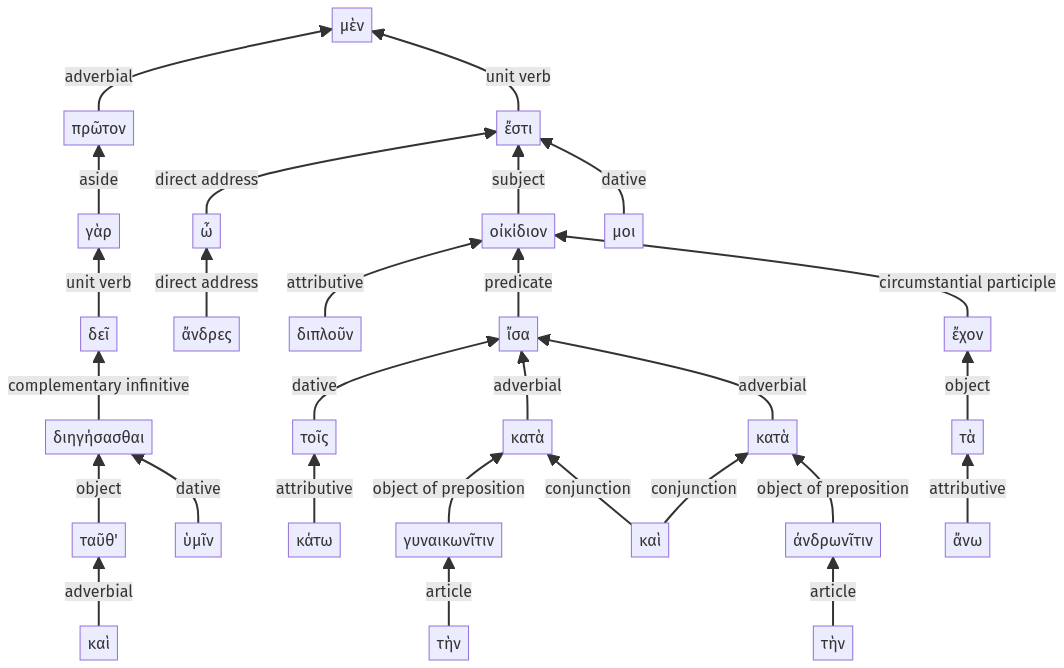
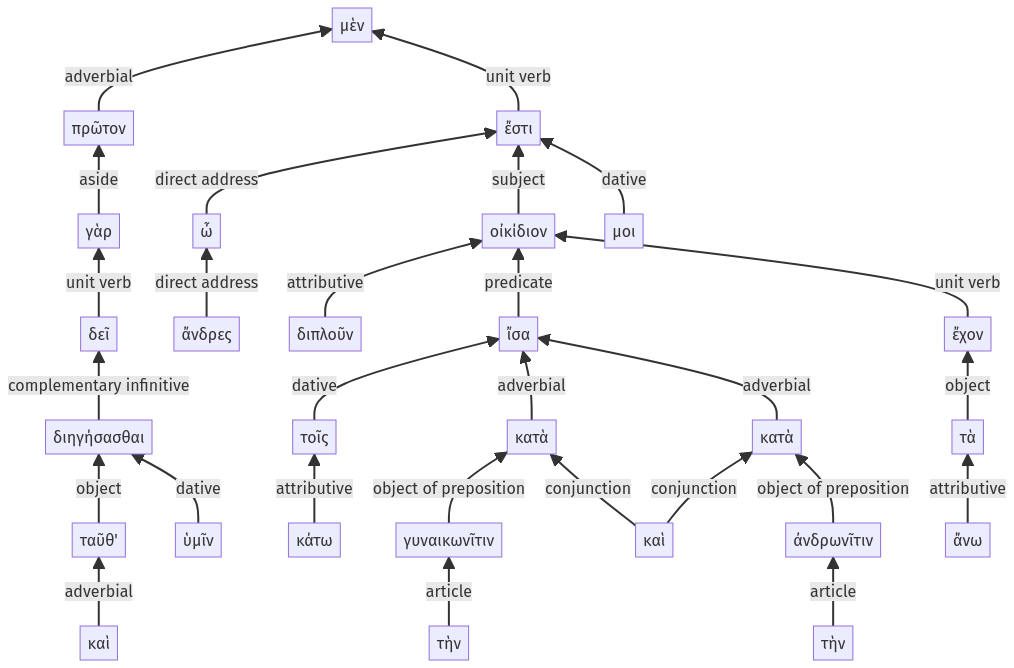
Update Lysias reader

diff --git a/docs/lysias1/reader/1.9.1-1.9.28a.html b/docs/lysias1/reader/1.9.1-1.9.28a.html
@@ -1,10 +1,10 @@
 <html>
 <head>
-<title>Lysias 1,  1.9.1-1.9.28a</title>
+<title>Lysias, Oration 1,  1.9.1-1.9.28a</title>
 <link rel="stylesheet" href="syntax.css">
 <link rel="stylesheet" href="page.css">
 </head>
-<body><h1>Lysias 1,  1.9.1-1.9.28a</h1>
+<body><h1>Lysias, Oration 1,  1.9.1-1.9.28a</h1>
 
 <p class="nav"><a href="./1.8.16-1.8.29a.html">1.8.16-1.8.29a</a> | <a href="./1.9.29-1.9.38a.html">1.9.29-1.9.38a</a></p>
 
@@ -15,9 +15,9 @@
  <span  >πρῶτον</span> <span  >μὲν</span> <span  >οὖν</span>, <span  >ὦ</span> <span  >ἄνδρες</span>, (<span  >δεῖ</span> <span  >γὰρ</span> <span  >καὶ</span> <span  >ταῦθ'</span> <span  >ὑμῖν</span> <span  >διηγήσασθαι</span>) <span  >οἰκίδιον</span> <span  >ἔστι</span> <span  >μοι</span> <span  >διπλοῦν</span>, <span  >ἴσα</span> <span  >ἔχον</span> <span  >τὰ</span> <span  >ἄνω</span> <span  >τοῖς</span> <span  >κάτω</span> <span  >κατὰ</span> <span  >τὴν</span> <span  >γυναικωνῖτιν</span> <span  >καὶ</span> <span  >κατὰ</span> <span  >τὴν</span> <span  >ἀνδρωνῖτιν</span>.
 </div>
 
-<div class="passage"><div class="passage"><blockquote class="subordination"><blockquote class="subordination"><span class="ref">1</span>   <span class="" >πρῶτον</span> <span class="" >ὦ</span> <span class="" >ἄνδρες</span></blockquote><blockquote class="subordination"><blockquote class="subordination"><span class="ref">2</span>  <span class="verb" >δεῖ</span> <span class="" >γὰρ</span> <span class="" >καὶ</span> <span class="object" >ταῦθ'</span> <span class="" >ὑμῖν</span> <span class="" >διηγήσασθαι</span></blockquote></blockquote><blockquote class="subordination"><span class="ref">1</span>   <span class="subject" >οἰκίδιον</span> <span class="verb" >ἔστι</span> <span class="" >μοι</span> <span class="" >διπλοῦν</span></blockquote><blockquote class="subordination"><blockquote class="subordination"><span class="ref">2</span>   <span class="" >ἴσα</span> <span class="" >ἔχον</span> <span class="object" >τὰ</span> <span class="" >ἄνω</span> <span class="" >τοῖς</span> <span class="" >κάτω</span> <span class="" >κατὰ</span> <span class="" >τὴν</span> <span class="" >γυναικωνῖτιν</span> <span class="" >καὶ</span> <span class="" >κατὰ</span> <span class="" >τὴν</span> <span class="" >ἀνδρωνῖτιν</span></blockquote></div></div>
+<div class="passage"><div class="passage"><blockquote class="subordination"><blockquote class="subordination"><span class="ref">1</span>   <span class="" >πρῶτον</span> <span class="" >ὦ</span> <span class="" >ἄνδρες</span></blockquote><blockquote class="subordination"><blockquote class="subordination"><span class="ref">2</span>  <span class="verb" >δεῖ</span> <span class="" >γὰρ</span> <span class="" >καὶ</span> <span class="object" >ταῦθ'</span> <span class="" >ὑμῖν</span> <span class="" >διηγήσασθαι</span></blockquote></blockquote><blockquote class="subordination"><span class="ref">1</span>   <span class="subject" >οἰκίδιον</span> <span class="verb" >ἔστι</span> <span class="" >μοι</span> <span class="" >διπλοῦν</span></blockquote><blockquote class="subordination"><blockquote class="subordination"><span class="ref">2</span>   <span class="" >ἴσα</span> <span class="verb" >ἔχον</span> <span class="object" >τὰ</span> <span class="" >ἄνω</span> <span class="" >τοῖς</span> <span class="" >κάτω</span> <span class="" >κατὰ</span> <span class="" >τὴν</span> <span class="" >γυναικωνῖτιν</span> <span class="" >καὶ</span> <span class="" >κατὰ</span> <span class="" >τὴν</span> <span class="" >ἀνδρωνῖτιν</span></blockquote></div></div>
 
-<div class="passage"> <span class="" style="color: #79A6A3">πρῶτον</span> <span class="connector" >μὲν</span> <span class="connector" >οὖν</span>, <span class="" style="color: #79A6A3">ὦ</span> <span class="" style="color: #79A6A3">ἄνδρες</span>, (<span class="verb" style="color: #C7D7CA">δεῖ</span> <span class="" style="color: #C7D7CA">γὰρ</span> <span class="" style="color: #C7D7CA">καὶ</span> <span class="object" style="color: #C7D7CA">ταῦθ'</span> <span class="" style="color: #C7D7CA">ὑμῖν</span> <span class="" style="color: #C7D7CA">διηγήσασθαι</span>) <span class="subject" style="color: #79A6A3">οἰκίδιον</span> <span class="verb" style="color: #79A6A3">ἔστι</span> <span class="" style="color: #79A6A3">μοι</span> <span class="" style="color: #79A6A3">διπλοῦν</span>, <span class="" style="color: #E5B36A">ἴσα</span> <span class="" style="color: #E5B36A">ἔχον</span> <span class="object" style="color: #E5B36A">τὰ</span> <span class="" style="color: #E5B36A">ἄνω</span> <span class="" style="color: #E5B36A">τοῖς</span> <span class="" style="color: #E5B36A">κάτω</span> <span class="" style="color: #E5B36A">κατὰ</span> <span class="" style="color: #E5B36A">τὴν</span> <span class="" style="color: #E5B36A">γυναικωνῖτιν</span> <span class="" style="color: #E5B36A">καὶ</span> <span class="" style="color: #E5B36A">κατὰ</span> <span class="" style="color: #E5B36A">τὴν</span> <span class="" style="color: #E5B36A">ἀνδρωνῖτιν</span>.</div>
+<div class="passage"> <span class="" style="color: #79A6A3">πρῶτον</span> <span class="connector" >μὲν</span> <span class="connector" >οὖν</span>, <span class="" style="color: #79A6A3">ὦ</span> <span class="" style="color: #79A6A3">ἄνδρες</span>, (<span class="verb" style="color: #C7D7CA">δεῖ</span> <span class="" style="color: #C7D7CA">γὰρ</span> <span class="" style="color: #C7D7CA">καὶ</span> <span class="object" style="color: #C7D7CA">ταῦθ'</span> <span class="" style="color: #C7D7CA">ὑμῖν</span> <span class="" style="color: #C7D7CA">διηγήσασθαι</span>) <span class="subject" style="color: #79A6A3">οἰκίδιον</span> <span class="verb" style="color: #79A6A3">ἔστι</span> <span class="" style="color: #79A6A3">μοι</span> <span class="" style="color: #79A6A3">διπλοῦν</span>, <span class="" style="color: #E5B36A">ἴσα</span> <span class="verb" style="color: #E5B36A">ἔχον</span> <span class="object" style="color: #E5B36A">τὰ</span> <span class="" style="color: #E5B36A">ἄνω</span> <span class="" style="color: #E5B36A">τοῖς</span> <span class="" style="color: #E5B36A">κάτω</span> <span class="" style="color: #E5B36A">κατὰ</span> <span class="" style="color: #E5B36A">τὴν</span> <span class="" style="color: #E5B36A">γυναικωνῖτιν</span> <span class="" style="color: #E5B36A">καὶ</span> <span class="" style="color: #E5B36A">κατὰ</span> <span class="" style="color: #E5B36A">τὴν</span> <span class="" style="color: #E5B36A">ἀνδρωνῖτιν</span>.</div>
 
 <div class="key right"><strong>Highlighting</strong>:<ul>
 <li><span class="connector">connecting words</span>
@@ -35,5 +35,5 @@
 
 <div class="diagram"><img src="pngs/sentence_17.png" alt="Syntax diagram, sentence 17"/></div>
 
-<footer>Site created by <code>syntaxsite.jl</code>, version 1.0.1, on January 9, 2023.</footer></body>
+<footer>Site created by <code>syntaxsite.jl</code>, version 1.0.1, on January 10, 2023.</footer></body>
 </html>

diff --git a/docs/lysias1/reader/1.14.12-1.14.32a.html b/docs/lysias1/reader/1.14.12-1.14.32a.html
@@ -1,10 +1,10 @@
 <html>
 <head>
-<title>Lysias 1,  1.14.12-1.14.32a</title>
+<title>Lysias, Oration 1,  1.14.12-1.14.32a</title>
 <link rel="stylesheet" href="syntax.css">
 <link rel="stylesheet" href="page.css">
 </head>
-<body><h1>Lysias 1,  1.14.12-1.14.32a</h1>
+<body><h1>Lysias, Oration 1,  1.14.12-1.14.32a</h1>
 
 <p class="nav"><a href="./1.14.1-1.14.11a.html">1.14.1-1.14.11a</a> | <a href="./1.14.40-1.14.53a.html">1.14.40-1.14.53a</a></p>
 
@@ -15,9 +15,9 @@
  <span  >ἐρομένου</span> <span  >δέ</span> <span  >μου</span> <span  >τί</span> <span  >αἱ</span> <span  >θύραι</span> <span  >νύκτωρ</span> <span  >ψοφοῖεν</span>, <span  >ἔφασκε</span> <span  >τὸν</span> <span  >λύχνον</span> <span  >ἀποσβεσθῆναι</span> <span  >τὸν</span> <span  >παρὰ</span> <span  >τῷ</span> <span  >παιδίῳ</span>, <span  >εἶτα</span> <span  >ἐκ</span> <span  >τῶν</span> <span  >γειτόνων</span> <span  >ἐνάψασθαι</span>.
 </div>
 
-<div class="passage"><div class="passage"><blockquote class="subordination"><blockquote class="subordination"><blockquote class="subordination"><span class="ref">2</span>   <span class="" >ἐρομένου</span> <span class="" >μου</span></blockquote></blockquote><blockquote class="subordination"><blockquote class="subordination"><blockquote class="subordination"><span class="ref">3</span>   <span class="" >τί</span> <span class="" >αἱ</span> <span class="subject" >θύραι</span> <span class="" >νύκτωρ</span> <span class="verb" >ψοφοῖεν</span></blockquote></blockquote></blockquote><blockquote class="subordination"><span class="ref">1</span>   <span class="verb" >ἔφασκε</span></blockquote><blockquote class="subordination"><blockquote class="subordination"><span class="ref">2</span>   <span class="" >τὸν</span> <span class="subject" >λύχνον</span> <span class="verb" >ἀποσβεσθῆναι</span> <span class="" >τὸν</span> <span class="" >παρὰ</span> <span class="" >τῷ</span> <span class="" >παιδίῳ</span></blockquote></blockquote><blockquote class="subordination"><blockquote class="subordination"><span class="ref">2</span>   <span class="" >εἶτα</span> <span class="" >ἐκ</span> <span class="" >τῶν</span> <span class="" >γειτόνων</span> <span class="verb" >ἐνάψασθαι</span></blockquote></div></div>
+<div class="passage"><div class="passage"><blockquote class="subordination"><blockquote class="subordination"><blockquote class="subordination"><span class="ref">2</span>   <span class="verb" >ἐρομένου</span> <span class="" >μου</span></blockquote></blockquote><blockquote class="subordination"><blockquote class="subordination"><blockquote class="subordination"><span class="ref">3</span>   <span class="" >τί</span> <span class="" >αἱ</span> <span class="subject" >θύραι</span> <span class="" >νύκτωρ</span> <span class="verb" >ψοφοῖεν</span></blockquote></blockquote></blockquote><blockquote class="subordination"><span class="ref">1</span>   <span class="verb" >ἔφασκε</span></blockquote><blockquote class="subordination"><blockquote class="subordination"><span class="ref">2</span>   <span class="" >τὸν</span> <span class="subject" >λύχνον</span> <span class="verb" >ἀποσβεσθῆναι</span> <span class="" >τὸν</span> <span class="" >παρὰ</span> <span class="" >τῷ</span> <span class="" >παιδίῳ</span></blockquote></blockquote><blockquote class="subordination"><blockquote class="subordination"><span class="ref">2</span>   <span class="" >εἶτα</span> <span class="" >ἐκ</span> <span class="" >τῶν</span> <span class="" >γειτόνων</span> <span class="verb" >ἐνάψασθαι</span></blockquote></div></div>
 
-<div class="passage"> <span class="" style="color: #E5B36A">ἐρομένου</span> <span class="connector" >δέ</span> <span class="" style="color: #E5B36A">μου</span> <span class="" style="color: #C7D7CA">τί</span> <span class="" style="color: #C7D7CA">αἱ</span> <span class="subject" style="color: #C7D7CA">θύραι</span> <span class="" style="color: #C7D7CA">νύκτωρ</span> <span class="verb" style="color: #C7D7CA">ψοφοῖεν</span>, <span class="verb" style="color: #79A6A3">ἔφασκε</span> <span class="" style="color: #E7926C">τὸν</span> <span class="subject" style="color: #E7926C">λύχνον</span> <span class="verb" style="color: #E7926C">ἀποσβεσθῆναι</span> <span class="" style="color: #E7926C">τὸν</span> <span class="" style="color: #E7926C">παρὰ</span> <span class="" style="color: #E7926C">τῷ</span> <span class="" style="color: #E7926C">παιδίῳ</span>, <span class="" style="color: #E5B36A">εἶτα</span> <span class="" style="color: #E5B36A">ἐκ</span> <span class="" style="color: #E5B36A">τῶν</span> <span class="" style="color: #E5B36A">γειτόνων</span> <span class="verb" style="color: #E5B36A">ἐνάψασθαι</span>.</div>
+<div class="passage"> <span class="verb" style="color: #E5B36A">ἐρομένου</span> <span class="connector" >δέ</span> <span class="" style="color: #E5B36A">μου</span> <span class="" style="color: #C7D7CA">τί</span> <span class="" style="color: #C7D7CA">αἱ</span> <span class="subject" style="color: #C7D7CA">θύραι</span> <span class="" style="color: #C7D7CA">νύκτωρ</span> <span class="verb" style="color: #C7D7CA">ψοφοῖεν</span>, <span class="verb" style="color: #79A6A3">ἔφασκε</span> <span class="" style="color: #E7926C">τὸν</span> <span class="subject" style="color: #E7926C">λύχνον</span> <span class="verb" style="color: #E7926C">ἀποσβεσθῆναι</span> <span class="" style="color: #E7926C">τὸν</span> <span class="" style="color: #E7926C">παρὰ</span> <span class="" style="color: #E7926C">τῷ</span> <span class="" style="color: #E7926C">παιδίῳ</span>, <span class="" style="color: #E5B36A">εἶτα</span> <span class="" style="color: #E5B36A">ἐκ</span> <span class="" style="color: #E5B36A">τῶν</span> <span class="" style="color: #E5B36A">γειτόνων</span> <span class="verb" style="color: #E5B36A">ἐνάψασθαι</span>.</div>
 
 <div class="key right"><strong>Highlighting</strong>:<ul>
 <li><span class="connector">connecting words</span>
@@ -37,5 +37,5 @@
 
 <div class="diagram"><img src="pngs/sentence_32.png" alt="Syntax diagram, sentence 32"/></div>
 
-<footer>Site created by <code>syntaxsite.jl</code>, version 1.0.1, on January 9, 2023.</footer></body>
+<footer>Site created by <code>syntaxsite.jl</code>, version 1.0.1, on January 10, 2023.</footer></body>
 </html>

diff --git a/docs/lysias1/reader/1.15.51-1.15.70a.html b/docs/lysias1/reader/1.15.51-1.15.70a.html
@@ -1,10 +1,10 @@
 <html>
 <head>
-<title>Lysias 1,  1.15.51-1.15.70a</title>
+<title>Lysias, Oration 1,  1.15.51-1.15.70a</title>
 <link rel="stylesheet" href="syntax.css">
 <link rel="stylesheet" href="page.css">
 </head>
-<body><h1>Lysias 1,  1.15.51-1.15.70a</h1>
+<body><h1>Lysias, Oration 1,  1.15.51-1.15.70a</h1>
 
 <p class="nav"><a href="./1.15.31-1.15.50a.html">1.15.31-1.15.50a</a> | <a href="./1.16.1-1.16.15a.html">1.16.1-1.16.15a</a></p>
 
@@ -15,7 +15,7 @@
  <span  >προσελθοῦσα</span> <span  >οὖν</span> <span  >μοι</span> <span  >ἐγγὺς</span> <span  >ἡ</span> <span  >ἄνθρωπος</span> <span  >τῆς</span> <span  >οἰκίας</span> <span  >τῆς</span> <span  >ἐμῆς</span> <span  >ἐπιτηροῦσα</span>, "<span  >εὐφίλητε</span> "<span  >ἔφη</span> "<span  >μηδεμιᾷ</span> <span  >πολυπραγμοσύνῃ</span> <span  >προσεληλυθέναι</span> <span  >με</span> <span  >νόμιζε</span> <span  >πρὸς</span> <span  >σέ</span>:
 </div>
 
-<div class="passage"><div class="passage"><blockquote class="subordination"><blockquote class="subordination"><blockquote class="subordination"><span class="ref">2</span>   <span class="verb" >προσελθοῦσα</span> <span class="" >μοι</span> <span class="" >ἐγγὺς</span></blockquote></blockquote><blockquote class="subordination"><span class="ref">1</span>   <span class="" >ἡ</span> <span class="subject" >ἄνθρωπος</span></blockquote><blockquote class="subordination"><blockquote class="subordination"><span class="ref">2</span>   <span class="" >τῆς</span> <span class="object" >οἰκίας</span> <span class="" >τῆς</span> <span class="" >ἐμῆς</span> <span class="verb" >ἐπιτηροῦσα</span></blockquote></blockquote><blockquote class="subordination"><blockquote class="subordination"><span class="ref">2</span>  <span class="" >εὐφίλητε</span></blockquote></blockquote><blockquote class="subordination"><span class="ref">1</span>  <span class="verb" >ἔφη</span></blockquote><blockquote class="subordination"><blockquote class="subordination"><span class="ref">2</span>  <span class="" >μηδεμιᾷ</span> <span class="" >πολυπραγμοσύνῃ</span> <span class="verb" >προσεληλυθέναι</span> <span class="subject" >με</span></blockquote></blockquote><blockquote class="subordination"><blockquote class="subordination"><span class="ref">2</span>   <span class="verb" >νόμιζε</span></blockquote></blockquote><blockquote class="subordination"><blockquote class="subordination"><span class="ref">2</span>   <span class="" >πρὸς</span> <span class="" >σέ</span></blockquote></div></div>
+<div class="passage"><div class="passage"><blockquote class="subordination"><blockquote class="subordination"><blockquote class="subordination"><span class="ref">2</span>   <span class="verb" >προσελθοῦσα</span> <span class="" >μοι</span> <span class="" >ἐγγὺς</span></blockquote></blockquote><blockquote class="subordination"><span class="ref">1</span>   <span class="" >ἡ</span> <span class="subject" >ἄνθρωπος</span></blockquote><blockquote class="subordination"><blockquote class="subordination"><span class="ref">2</span>   <span class="" >τῆς</span> <span class="object" >οἰκίας</span> <span class="" >τῆς</span> <span class="" >ἐμῆς</span> <span class="verb" >ἐπιτηροῦσα</span></blockquote></blockquote><blockquote class="subordination"><blockquote class="subordination"><span class="ref">2</span>  <span class="" >εὐφίλητε</span></blockquote></blockquote><blockquote class="subordination"><span class="ref">1</span>  <span class="verb" >ἔφη</span></blockquote><blockquote class="subordination"><blockquote class="subordination"><blockquote class="subordination"><span class="ref">3</span>  <span class="" >μηδεμιᾷ</span> <span class="" >πολυπραγμοσύνῃ</span> <span class="verb" >προσεληλυθέναι</span> <span class="subject" >με</span></blockquote></blockquote></blockquote><blockquote class="subordination"><blockquote class="subordination"><span class="ref">2</span>   <span class="verb" >νόμιζε</span></blockquote></blockquote><blockquote class="subordination"><blockquote class="subordination"><blockquote class="subordination"><span class="ref">3</span>   <span class="" >πρὸς</span> <span class="" >σέ</span></blockquote></div></div>
 
 <div class="passage"> <span class="verb" style="color: #E5B36A">προσελθοῦσα</span> <span class="connector" >οὖν</span> <span class="" style="color: #E5B36A">μοι</span> <span class="" style="color: #E5B36A">ἐγγὺς</span> <span class="" style="color: #79A6A3">ἡ</span> <span class="subject" style="color: #79A6A3">ἄνθρωπος</span> <span class="" style="color: #C7D7CA">τῆς</span> <span class="object" style="color: #C7D7CA">οἰκίας</span> <span class="" style="color: #C7D7CA">τῆς</span> <span class="" style="color: #C7D7CA">ἐμῆς</span> <span class="verb" style="color: #C7D7CA">ἐπιτηροῦσα</span>, "<span class="" style="color: #E7926C">εὐφίλητε</span> "<span class="verb" style="color: #79A6A3">ἔφη</span> "<span class="" style="color: #E5B36A">μηδεμιᾷ</span> <span class="" style="color: #E5B36A">πολυπραγμοσύνῃ</span> <span class="verb" style="color: #E5B36A">προσεληλυθέναι</span> <span class="subject" style="color: #E5B36A">με</span> <span class="verb" style="color: #E7926C">νόμιζε</span> <span class="" style="color: #E5B36A">πρὸς</span> <span class="" style="color: #E5B36A">σέ</span>:</div>
 
@@ -32,10 +32,10 @@
 <li><span style="color: #E5B36A;">circumstantial participle</span> (level 2,  intransitive verb)</li>
 <li><span style="color: #C7D7CA;">circumstantial participle</span> (level 2,  transitive verb)</li>
 <li><span style="color: #E7926C;">quote</span> (level 2,  transitive verb)</li>
-<li><span style="color: #E5B36A;">indirect statement with infinitive</span> (level 2,  transitive verb)</li>
+<li><span style="color: #E5B36A;">indirect statement with infinitive</span> (level 3,  transitive verb)</li>
 </ol></div>
 
 <div class="diagram"><img src="pngs/sentence_38.png" alt="Syntax diagram, sentence 38"/></div>
 
-<footer>Site created by <code>syntaxsite.jl</code>, version 1.0.1, on January 9, 2023.</footer></body>
+<footer>Site created by <code>syntaxsite.jl</code>, version 1.0.1, on January 10, 2023.</footer></body>
 </html>

diff --git a/docs/lysias1/reader/1.12.35-1.12.50a.html b/docs/lysias1/reader/1.12.35-1.12.50a.html
@@ -1,10 +1,10 @@
 <html>
 <head>
-<title>Lysias 1,  1.12.35-1.12.50a</title>
+<title>Lysias, Oration 1,  1.12.35-1.12.50a</title>
 <link rel="stylesheet" href="syntax.css">
 <link rel="stylesheet" href="page.css">
 </head>
-<body><h1>Lysias 1,  1.12.35-1.12.50a</h1>
+<body><h1>Lysias, Oration 1,  1.12.35-1.12.50a</h1>
 
 <p class="nav"><a href="./1.12.20-1.12.34a.html">1.12.20-1.12.34a</a> | <a href="./1.12.51-1.12.56a.html">1.12.51-1.12.56a</a></p>
 
@@ -15,9 +15,9 @@
  <span  >ἐπειδὴ</span> <span  >δὲ</span> <span  >ἐγὼ</span> <span  >ὠργιζόμην</span> <span  >καὶ</span> <span  >ἐκέλευον</span> <span  >αὐτὴν</span> <span  >ἀπιέναι</span>, "<span  >ἵνα</span> <span  >σύ</span> <span  >γε</span> "<span  >ἔφη</span> "<span  >πειρᾷς</span> <span  >ἐνταῦθα</span> <span  >τὴν</span> <span  >παιδίσκην</span>:
 </div>
 
-<div class="passage"><div class="passage"><blockquote class="subordination"><blockquote class="subordination"><blockquote class="subordination"><span class="ref">2</span>   <span class="" >ἐπειδὴ</span> <span class="subject" >ἐγὼ</span> <span class="verb" >ὠργιζόμην</span></blockquote></blockquote><blockquote class="subordination"><blockquote class="subordination"><span class="ref">2</span>   <span class="" >καὶ</span> <span class="verb" >ἐκέλευον</span></blockquote></blockquote><blockquote class="subordination"><blockquote class="subordination"><blockquote class="subordination"><span class="ref">3</span>   <span class="subject" >αὐτὴν</span> <span class="verb" >ἀπιέναι</span></blockquote></blockquote></blockquote><blockquote class="subordination"><blockquote class="subordination"><span class="ref">2</span>  <span class="" >ἵνα</span> <span class="subject" >σύ</span> <span class="" >γε</span><span class="verb" >ἔφη</span><span class="verb" >πειρᾷς</span> <span class="" >ἐνταῦθα</span> <span class="" >τὴν</span> <span class="object" >παιδίσκην</span></blockquote></div></div>
+<div class="passage"><div class="passage"><blockquote class="subordination"><blockquote class="subordination"><blockquote class="subordination"><span class="ref">2</span>   <span class="" >ἐπειδὴ</span> <span class="subject" >ἐγὼ</span> <span class="verb" >ὠργιζόμην</span></blockquote></blockquote><blockquote class="subordination"><blockquote class="subordination"><span class="ref">2</span>   <span class="" >καὶ</span> <span class="verb" >ἐκέλευον</span></blockquote></blockquote><blockquote class="subordination"><blockquote class="subordination"><blockquote class="subordination"><span class="ref">3</span>   <span class="subject" >αὐτὴν</span> <span class="verb" >ἀπιέναι</span></blockquote></blockquote></blockquote><blockquote class="subordination"><blockquote class="subordination"><span class="ref">2</span>  <span class="" >ἵνα</span> <span class="subject" >σύ</span> <span class="" >γε</span></blockquote></blockquote><blockquote class="subordination"><span class="ref">1</span>  <span class="verb" >ἔφη</span></blockquote><blockquote class="subordination"><blockquote class="subordination"><span class="ref">2</span>  <span class="verb" >πειρᾷς</span> <span class="" >ἐνταῦθα</span> <span class="" >τὴν</span> <span class="object" >παιδίσκην</span></blockquote></div></div>
 
-<div class="passage"> <span class="" style="color: #E5B36A">ἐπειδὴ</span> <span class="connector" >δὲ</span> <span class="subject" style="color: #E5B36A">ἐγὼ</span> <span class="verb" style="color: #E5B36A">ὠργιζόμην</span> <span class="" style="color: #C7D7CA">καὶ</span> <span class="verb" style="color: #C7D7CA">ἐκέλευον</span> <span class="subject" style="color: #E7926C">αὐτὴν</span> <span class="verb" style="color: #E7926C">ἀπιέναι</span>, "<span class="" style="color: #E5B36A">ἵνα</span> <span class="subject" style="color: #E5B36A">σύ</span> <span class="" style="color: #E5B36A">γε</span> "<span class="verb" style="color: #E5B36A">ἔφη</span> "<span class="verb" style="color: #E5B36A">πειρᾷς</span> <span class="" style="color: #E5B36A">ἐνταῦθα</span> <span class="" style="color: #E5B36A">τὴν</span> <span class="object" style="color: #E5B36A">παιδίσκην</span>:</div>
+<div class="passage"> <span class="" style="color: #E5B36A">ἐπειδὴ</span> <span class="connector" >δὲ</span> <span class="subject" style="color: #E5B36A">ἐγὼ</span> <span class="verb" style="color: #E5B36A">ὠργιζόμην</span> <span class="" style="color: #C7D7CA">καὶ</span> <span class="verb" style="color: #C7D7CA">ἐκέλευον</span> <span class="subject" style="color: #E7926C">αὐτὴν</span> <span class="verb" style="color: #E7926C">ἀπιέναι</span>, "<span class="" style="color: #E5B36A">ἵνα</span> <span class="subject" style="color: #E5B36A">σύ</span> <span class="" style="color: #E5B36A">γε</span> "<span class="verb" style="color: #79A6A3">ἔφη</span> "<span class="verb" style="color: #E5B36A">πειρᾷς</span> <span class="" style="color: #E5B36A">ἐνταῦθα</span> <span class="" style="color: #E5B36A">τὴν</span> <span class="object" style="color: #E5B36A">παιδίσκην</span>:</div>
 
 <div class="key right"><strong>Highlighting</strong>:<ul>
 <li><span class="connector">connecting words</span>
@@ -37,5 +37,5 @@
 
 <div class="diagram"><img src="pngs/sentence_27.png" alt="Syntax diagram, sentence 27"/></div>
 
-<footer>Site created by <code>syntaxsite.jl</code>, version 1.0.1, on January 9, 2023.</footer></body>
+<footer>Site created by <code>syntaxsite.jl</code>, version 1.0.1, on January 10, 2023.</footer></body>
 </html>

diff --git a/docs/lysias1/reader/1.8.16-1.8.29a.html b/docs/lysias1/reader/1.8.16-1.8.29a.html
@@ -1,10 +1,10 @@
 <html>
 <head>
-<title>Lysias 1,  1.8.16-1.8.29a</title>
+<title>Lysias, Oration 1,  1.8.16-1.8.29a</title>
 <link rel="stylesheet" href="syntax.css">
 <link rel="stylesheet" href="page.css">
 </head>
-<body><h1>Lysias 1,  1.8.16-1.8.29a</h1>
+<body><h1>Lysias, Oration 1,  1.8.16-1.8.29a</h1>
 
 <p class="nav"><a href="./1.8.1-1.8.15a.html">1.8.1-1.8.15a</a> | <a href="./1.9.1-1.9.28a.html">1.9.1-1.9.28a</a></p>
 
@@ -15,9 +15,9 @@
  <span  >ἐπιτηρῶν</span> <span  >γὰρ</span> <span  >τὴν</span> <span  >θεράπαιναν</span> <span  >τὴν</span> <span  >εἰς</span> <span  >τὴν</span> <span  >ἀγορὰν</span> <span  >βαδίζουσαν</span> <span  >καὶ</span> <span  >λόγους</span> <span  >προσφέρων</span> <span  >ἀπώλεσεν</span> <span  >αὐτήν</span>.
 </div>
 
-<div class="passage"><div class="passage"><blockquote class="subordination"><blockquote class="subordination"><blockquote class="subordination"><span class="ref">2</span>   <span class="verb" >ἐπιτηρῶν</span> <span class="" >τὴν</span> <span class="object" >θεράπαιναν</span></blockquote></blockquote><blockquote class="subordination"><blockquote class="subordination"><span class="ref">2</span>   <span class="" >τὴν</span> <span class="" >εἰς</span> <span class="" >τὴν</span> <span class="" >ἀγορὰν</span> <span class="verb" >βαδίζουσαν</span> <span class="" >καὶ</span> <span class="object" >λόγους</span> <span class="verb" >προσφέρων</span></blockquote></blockquote><blockquote class="subordination"><span class="ref">1</span>   <span class="verb" >ἀπώλεσεν</span> <span class="object" >αὐτήν</span></blockquote></div></div>
+<div class="passage"><div class="passage"><blockquote class="subordination"><blockquote class="subordination"><blockquote class="subordination"><span class="ref">2</span>   <span class="verb" >ἐπιτηρῶν</span> <span class="" >τὴν</span> <span class="object" >θεράπαιναν</span></blockquote></blockquote><blockquote class="subordination"><blockquote class="subordination"><blockquote class="subordination"><span class="ref">3</span>   <span class="" >τὴν</span> <span class="" >εἰς</span> <span class="" >τὴν</span> <span class="" >ἀγορὰν</span> <span class="verb" >βαδίζουσαν</span></blockquote></blockquote></blockquote><blockquote class="subordination"><blockquote class="subordination"><span class="ref">2</span>   <span class="" >καὶ</span> <span class="object" >λόγους</span> <span class="verb" >προσφέρων</span></blockquote></blockquote><blockquote class="subordination"><span class="ref">1</span>   <span class="verb" >ἀπώλεσεν</span> <span class="object" >αὐτήν</span></blockquote></div></div>
 
-<div class="passage"> <span class="verb" style="color: #E5B36A">ἐπιτηρῶν</span> <span class="connector" >γὰρ</span> <span class="" style="color: #E5B36A">τὴν</span> <span class="object" style="color: #E5B36A">θεράπαιναν</span> <span class="" style="color: #C7D7CA">τὴν</span> <span class="" style="color: #C7D7CA">εἰς</span> <span class="" style="color: #C7D7CA">τὴν</span> <span class="" style="color: #C7D7CA">ἀγορὰν</span> <span class="verb" style="color: #C7D7CA">βαδίζουσαν</span> <span class="" style="color: #C7D7CA">καὶ</span> <span class="object" style="color: #C7D7CA">λόγους</span> <span class="verb" style="color: #C7D7CA">προσφέρων</span> <span class="verb" style="color: #79A6A3">ἀπώλεσεν</span> <span class="object" style="color: #79A6A3">αὐτήν</span>.</div>
+<div class="passage"> <span class="verb" style="color: #E5B36A">ἐπιτηρῶν</span> <span class="connector" >γὰρ</span> <span class="" style="color: #E5B36A">τὴν</span> <span class="object" style="color: #E5B36A">θεράπαιναν</span> <span class="" style="color: #E7926C">τὴν</span> <span class="" style="color: #E7926C">εἰς</span> <span class="" style="color: #E7926C">τὴν</span> <span class="" style="color: #E7926C">ἀγορὰν</span> <span class="verb" style="color: #E7926C">βαδίζουσαν</span> <span class="" style="color: #C7D7CA">καὶ</span> <span class="object" style="color: #C7D7CA">λόγους</span> <span class="verb" style="color: #C7D7CA">προσφέρων</span> <span class="verb" style="color: #79A6A3">ἀπώλεσεν</span> <span class="object" style="color: #79A6A3">αὐτήν</span>.</div>
 
 <div class="key right"><strong>Highlighting</strong>:<ul>
 <li><span class="connector">connecting words</span>
@@ -36,5 +36,5 @@
 
 <div class="diagram"><img src="pngs/sentence_16.png" alt="Syntax diagram, sentence 16"/></div>
 
-<footer>Site created by <code>syntaxsite.jl</code>, version 1.0.1, on January 9, 2023.</footer></body>
+<footer>Site created by <code>syntaxsite.jl</code>, version 1.0.1, on January 10, 2023.</footer></body>
 </html>

diff --git a/docs/lysias1/reader/1.12.51-1.12.56a.html b/docs/lysias1/reader/1.12.51-1.12.56a.html
@@ -1,10 +1,10 @@
 <html>
 <head>
-<title>Lysias 1,  1.12.51-1.12.56a</title>
+<title>Lysias, Oration 1,  1.12.51-1.12.56a</title>
 <link rel="stylesheet" href="syntax.css">
 <link rel="stylesheet" href="page.css">
 </head>
-<body><h1>Lysias 1,  1.12.51-1.12.56a</h1>
+<body><h1>Lysias, Oration 1,  1.12.51-1.12.56a</h1>
 
 <p class="nav"><a href="./1.12.35-1.12.50a.html">1.12.35-1.12.50a</a> | <a href="./1.12.57-1.13.14a.html">1.12.57-1.13.14a</a></p>
 
@@ -34,5 +34,5 @@
 
 <div class="diagram"><img src="pngs/sentence_28.png" alt="Syntax diagram, sentence 28"/></div>
 
-<footer>Site created by <code>syntaxsite.jl</code>, version 1.0.1, on January 9, 2023.</footer></body>
+<footer>Site created by <code>syntaxsite.jl</code>, version 1.0.1, on January 10, 2023.</footer></body>
 </html>

diff --git a/docs/lysias1/reader/1.12.57-1.13.14a.html b/docs/lysias1/reader/1.12.57-1.13.14a.html
@@ -1,10 +1,10 @@
 <html>
 <head>
-<title>Lysias 1,  1.12.57-1.13.14a</title>
+<title>Lysias, Oration 1,  1.12.57-1.13.14a</title>
 <link rel="stylesheet" href="syntax.css">
 <link rel="stylesheet" href="page.css">
 </head>
-<body><h1>Lysias 1,  1.12.57-1.13.14a</h1>
+<body><h1>Lysias, Oration 1,  1.12.57-1.13.14a</h1>
 
 <p class="nav"><a href="./1.12.51-1.12.56a.html">1.12.51-1.12.56a</a> | <a href="./1.13.15-1.13.25a.html">1.13.15-1.13.25a</a></p>
 
@@ -38,5 +38,5 @@
 
 <div class="diagram"><img src="pngs/sentence_29.png" alt="Syntax diagram, sentence 29"/></div>
 
-<footer>Site created by <code>syntaxsite.jl</code>, version 1.0.1, on January 9, 2023.</footer></body>
+<footer>Site created by <code>syntaxsite.jl</code>, version 1.0.1, on January 10, 2023.</footer></body>
 </html>

diff --git a/docs/lysias1/reader/1.14.40-1.14.53a.html b/docs/lysias1/reader/1.14.40-1.14.53a.html
@@ -1,10 +1,10 @@
 <html>
 <head>
-<title>Lysias 1,  1.14.40-1.14.53a</title>
+<title>Lysias, Oration 1,  1.14.40-1.14.53a</title>
 <link rel="stylesheet" href="syntax.css">
 <link rel="stylesheet" href="page.css">
 </head>
-<body><h1>Lysias 1,  1.14.40-1.14.53a</h1>
+<body><h1>Lysias, Oration 1,  1.14.40-1.14.53a</h1>
 
 <p class="nav"><a href="./1.14.12-1.14.32a.html">1.14.12-1.14.32a</a> | <a href="./1.14.54-1.14.66a.html">1.14.54-1.14.66a</a></p>
 
@@ -35,5 +35,5 @@
 
 <div class="diagram"><img src="pngs/sentence_34.png" alt="Syntax diagram, sentence 34"/></div>
 
-<footer>Site created by <code>syntaxsite.jl</code>, version 1.0.1, on January 9, 2023.</footer></body>
+<footer>Site created by <code>syntaxsite.jl</code>, version 1.0.1, on January 10, 2023.</footer></body>
 </html>

diff --git a/docs/lysias1/reader/1.16.32-1.16.50a.html b/docs/lysias1/reader/1.16.32-1.16.50a.html
@@ -1,10 +1,10 @@
 <html>
 <head>
-<title>Lysias 1,  1.16.32-1.16.50a</title>
+<title>Lysias, Oration 1,  1.16.32-1.16.50a</title>
 <link rel="stylesheet" href="syntax.css">
 <link rel="stylesheet" href="page.css">
 </head>
-<body><h1>Lysias 1,  1.16.32-1.16.50a</h1>
+<body><h1>Lysias, Oration 1,  1.16.32-1.16.50a</h1>
 
 <p class="nav"><a href="./1.16.16-1.16.31a.html">1.16.16-1.16.31a</a> | <a href="./1.16.51-1.16.55a.html">1.16.51-1.16.55a</a></p>
 
@@ -37,5 +37,5 @@
 
 <div class="diagram"><img src="pngs/sentence_41.png" alt="Syntax diagram, sentence 41"/></div>
 
-<footer>Site created by <code>syntaxsite.jl</code>, version 1.0.1, on January 9, 2023.</footer></body>
+<footer>Site created by <code>syntaxsite.jl</code>, version 1.0.1, on January 10, 2023.</footer></body>
 </html>

diff --git a/docs/lysias1/reader/1.16.51-1.16.55a.html b/docs/lysias1/reader/1.16.51-1.16.55a.html
@@ -1,10 +1,10 @@
 <html>
 <head>
-<title>Lysias 1,  1.16.51-1.16.55a</title>
+<title>Lysias, Oration 1,  1.16.51-1.16.55a</title>
 <link rel="stylesheet" href="syntax.css">
 <link rel="stylesheet" href="page.css">
 </head>
-<body><h1>Lysias 1,  1.16.51-1.16.55a</h1>
+<body><h1>Lysias, Oration 1,  1.16.51-1.16.55a</h1>
 
 <p class="nav"><a href="./1.16.32-1.16.50a.html">1.16.32-1.16.50a</a> | <a href="./1.19.16-1.19.38a.html">1.19.16-1.19.38a</a></p>
 
@@ -33,5 +33,5 @@
 
 <div class="diagram"><img src="pngs/sentence_42.png" alt="Syntax diagram, sentence 42"/></div>
 
-<footer>Site created by <code>syntaxsite.jl</code>, version 1.0.1, on January 9, 2023.</footer></body>
+<footer>Site created by <code>syntaxsite.jl</code>, version 1.0.1, on January 10, 2023.</footer></body>
 </html>

diff --git a/docs/lysias1/reader/1.19.16-1.19.38a.html b/docs/lysias1/reader/1.19.16-1.19.38a.html
@@ -1,10 +1,10 @@
 <html>
 <head>
-<title>Lysias 1,  1.19.16-1.19.38a</title>
+<title>Lysias, Oration 1,  1.19.16-1.19.38a</title>
 <link rel="stylesheet" href="syntax.css">
 <link rel="stylesheet" href="page.css">
 </head>
-<body><h1>Lysias 1,  1.19.16-1.19.38a</h1>
+<body><h1>Lysias, Oration 1,  1.19.16-1.19.38a</h1>
 
 <p class="nav"><a href="./1.16.51-1.16.55a.html">1.16.51-1.16.55a</a> | <a href="./1.20.51-1.20.57a.html">1.20.51-1.20.57a</a></p>
 
@@ -39,5 +39,5 @@
 
 <div class="diagram"><img src="pngs/sentence_50.png" alt="Syntax diagram, sentence 50"/></div>
 
-<footer>Site created by <code>syntaxsite.jl</code>, version 1.0.1, on January 9, 2023.</footer></body>
+<footer>Site created by <code>syntaxsite.jl</code>, version 1.0.1, on January 10, 2023.</footer></body>
 </html>

diff --git a/docs/lysias1/reader/1.12.20-1.12.34a.html b/docs/lysias1/reader/1.12.20-1.12.34a.html
@@ -1,10 +1,10 @@
 <html>
 <head>
-<title>Lysias 1,  1.12.20-1.12.34a</title>
+<title>Lysias, Oration 1,  1.12.20-1.12.34a</title>
 <link rel="stylesheet" href="syntax.css">
 <link rel="stylesheet" href="page.css">
 </head>
-<body><h1>Lysias 1,  1.12.20-1.12.34a</h1>
+<body><h1>Lysias, Oration 1,  1.12.20-1.12.34a</h1>
 
 <p class="nav"><a href="./1.12.5-1.12.19a.html">1.12.5-1.12.19a</a> | <a href="./1.12.35-1.12.50a.html">1.12.35-1.12.50a</a></p>
 
@@ -36,5 +36,5 @@
 
 <div class="diagram"><img src="pngs/sentence_26.png" alt="Syntax diagram, sentence 26"/></div>
 
-<footer>Site created by <code>syntaxsite.jl</code>, version 1.0.1, on January 9, 2023.</footer></body>
+<footer>Site created by <code>syntaxsite.jl</code>, version 1.0.1, on January 10, 2023.</footer></body>
 </html>
